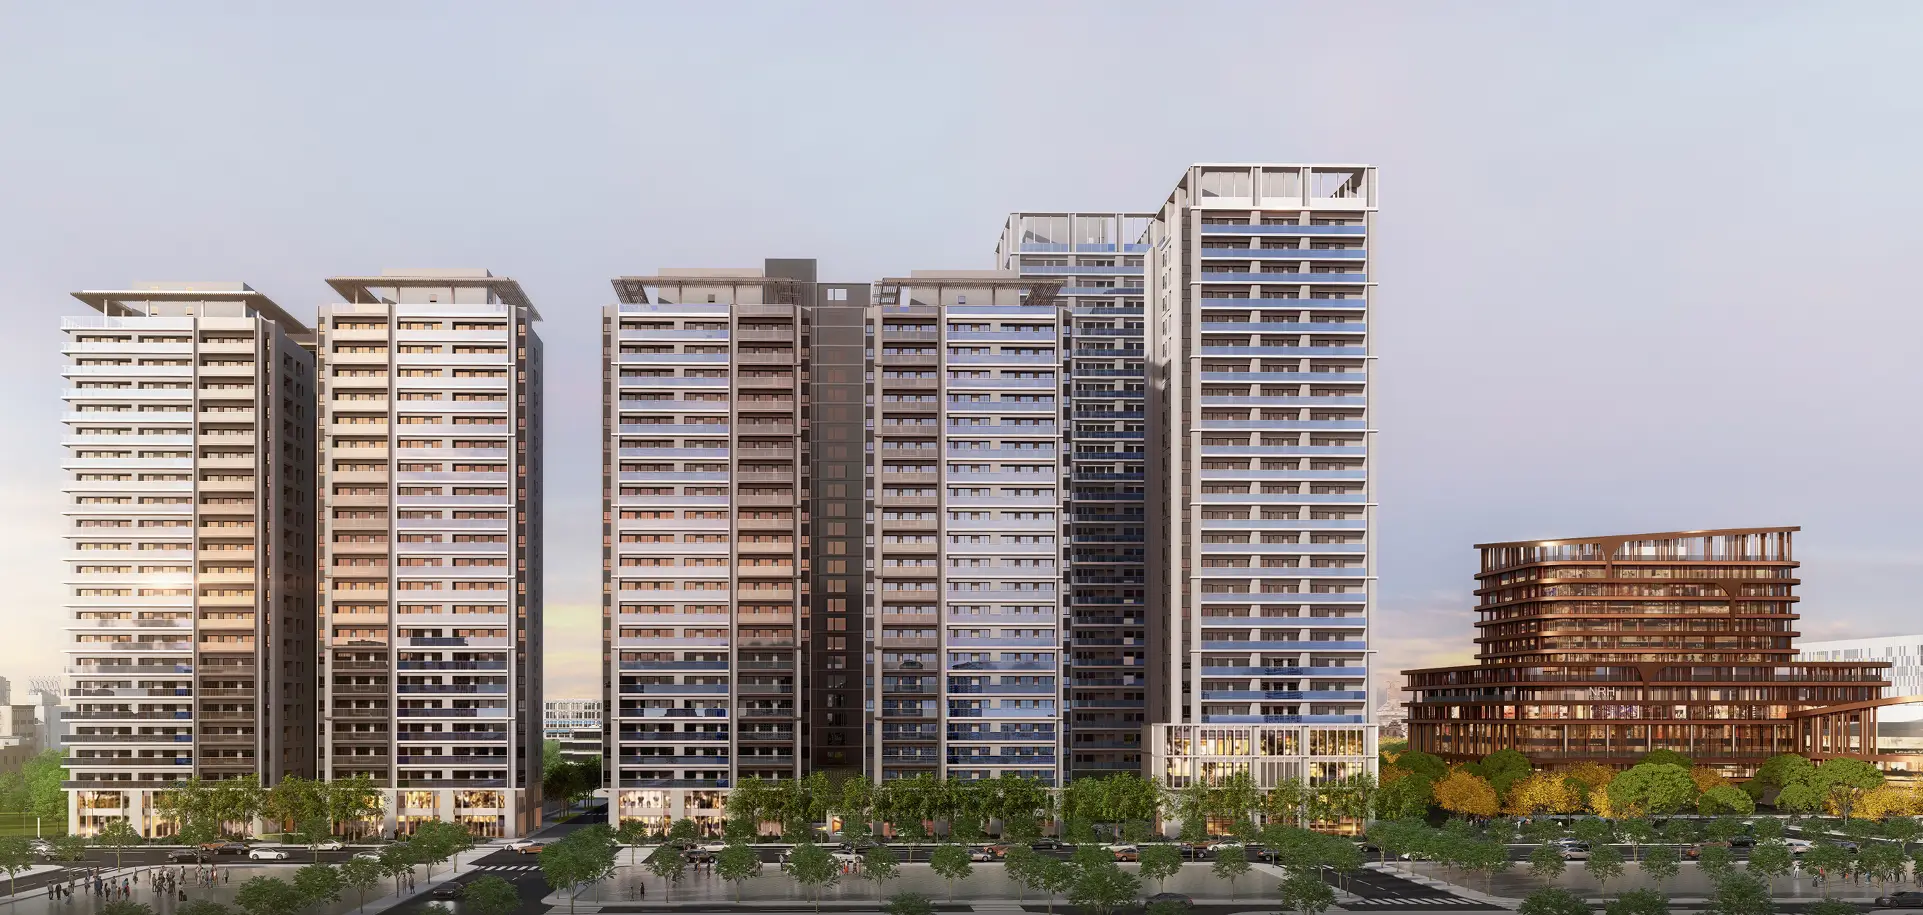
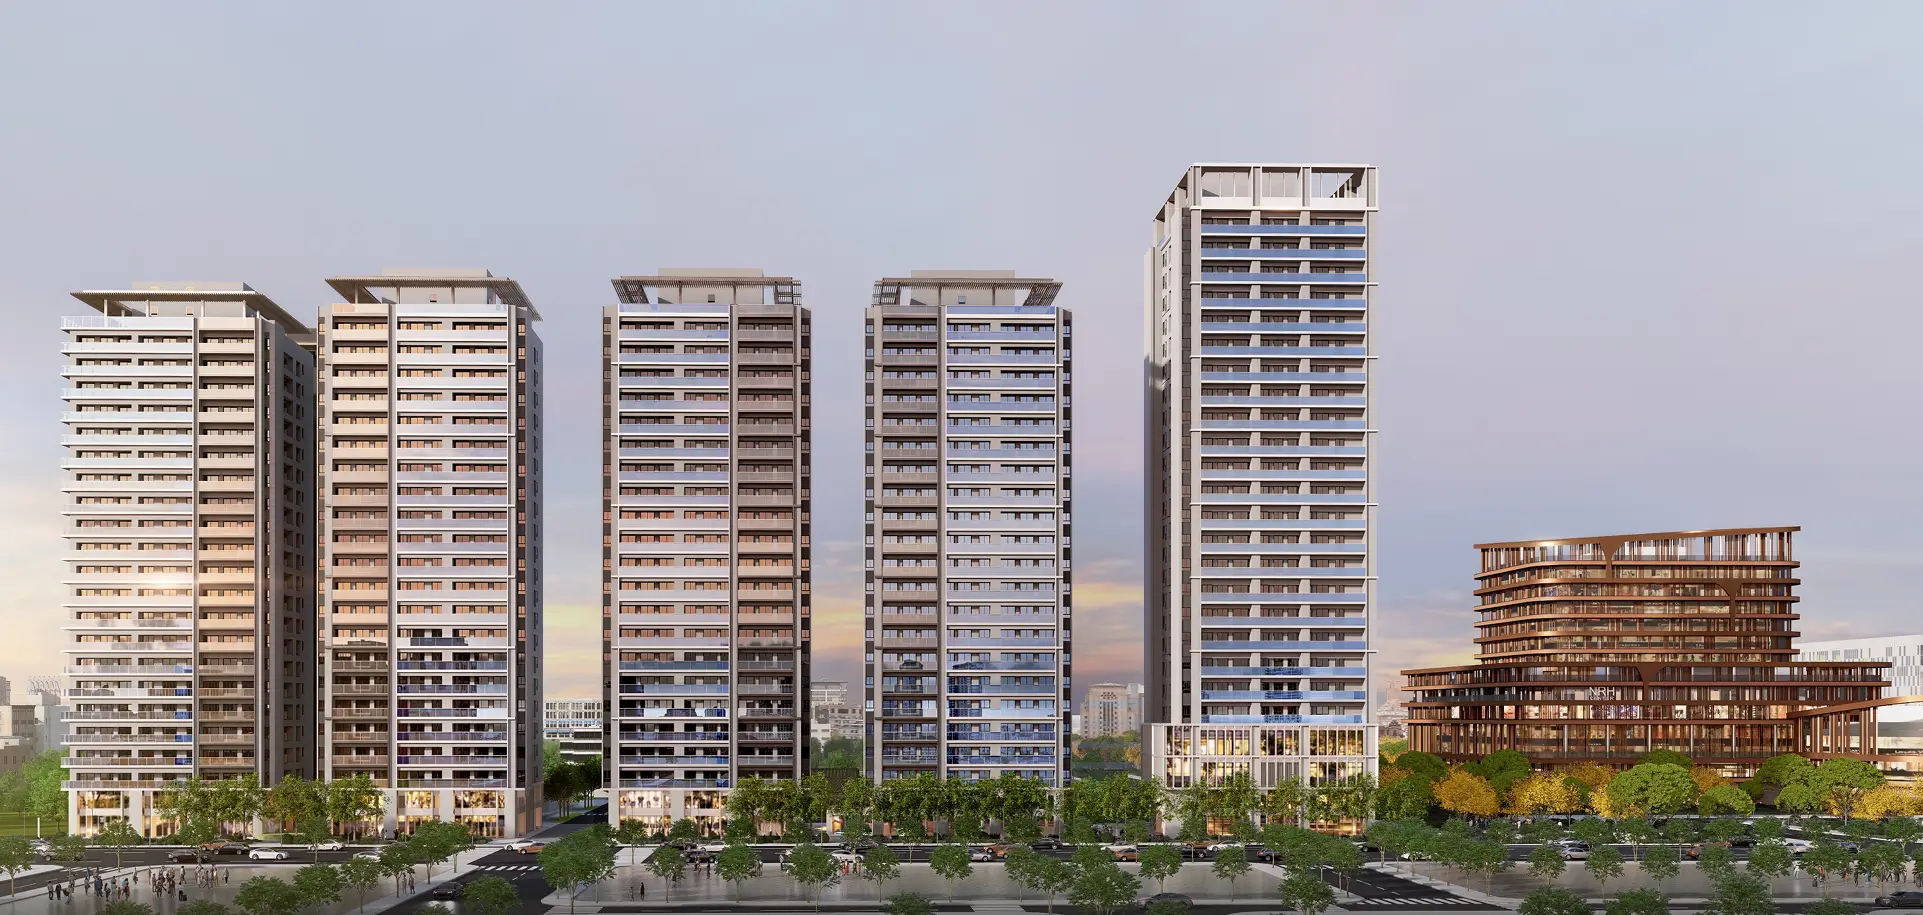
修改

diff --git a/src/pages/PinshiArchitecture.vue b/src/pages/PinshiArchitecture.vue
@@ -1,7 +1,7 @@
 <template>
   <section id="main">
     <div class="img-group">
-    <img class="pc" src="@/assets/pinshi-architecture/1/1.webp" />
+    <img class="pc" src="@/assets/pinshi-architecture/main.webp" />
     <img class="mob" src="@/assets/pinshi-architecture/1/1m.webp" />
     <div class="photo-desc">國城寳實 北向建築立面透視圖</div>
     <div class="photo-desc1">此為建物外觀3D效果參考示意圖，周遭環境係電腦合成示意表現。</div>
